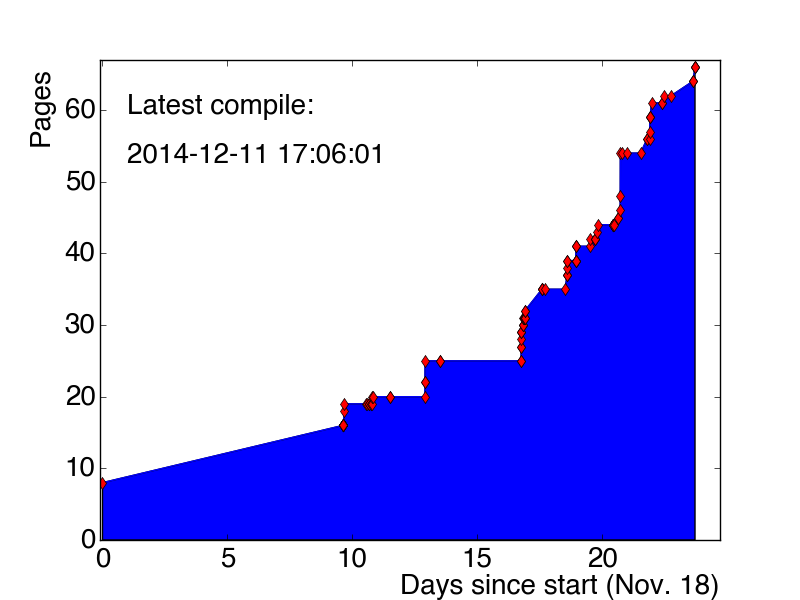
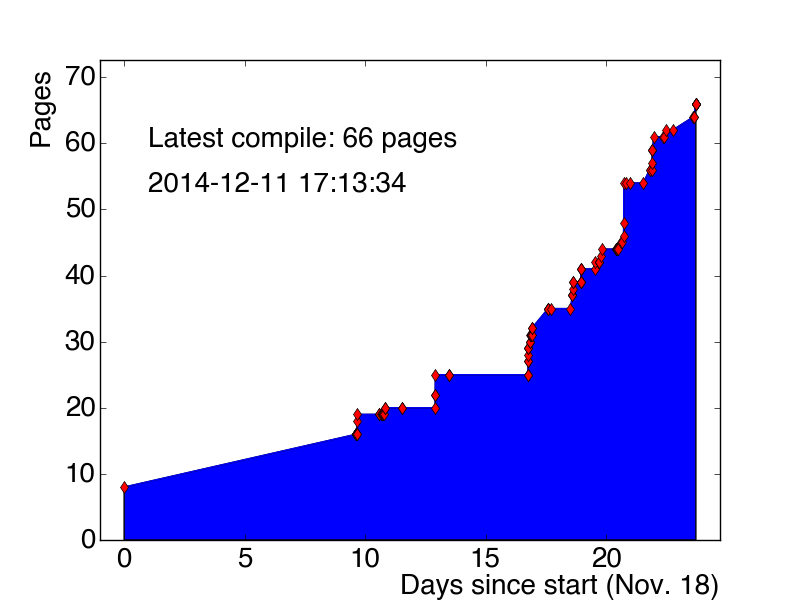
add pages to pic

diff --git a/scripts/plot_pages.py b/scripts/plot_pages.py
@@ -31,7 +31,7 @@ with open("pages.md") as file:
         delta = current - start
         dayssince.append(delta.days + delta.seconds/spd)
         pages.append(int(pagecount))
-        last = current
+        lasttime, lastpages = current, pagecount
 
 import numpy as np
 dayssince = np.array(dayssince)
@@ -53,9 +53,9 @@ ax.yaxis.set_label_coords(-0.07, 0.9)
 plt.xlabel("Days since start (Nov. 18)")
 plt.ylabel("Pages")
 plt.title("")
-plt.text(1, 0.90*max(pages), r"Latest compile:")
-plt.text(1, 0.80*max(pages), r"%s" % (last))
-plt.axis([-0.1, maxdayssince+1, 0, max(pages)+1])
+plt.text(1, 0.90*max(pages), r"Latest compile: %s pages" % (lastpages))
+plt.text(1, 0.80*max(pages), r"%s" % (lasttime))
+plt.axis([-1, maxdayssince+1, 0, 1.1*max(pages)])
 plt.grid(False)
 plt.plot(dayssince, pages, "-")
 plt.plot(dayssince, pages, "rd")

diff --git a/pages.md b/pages.md
@@ -116,3 +116,6 @@
 + [2014-12-11-17h04m00s] 66
 + [2014-12-11-17h05m11s] 66
 + [2014-12-11-17h06m01s] 66
++ [2014-12-11-17h12m00s] 66
++ [2014-12-11-17h12m38s] 66
++ [2014-12-11-17h13m34s] 66
